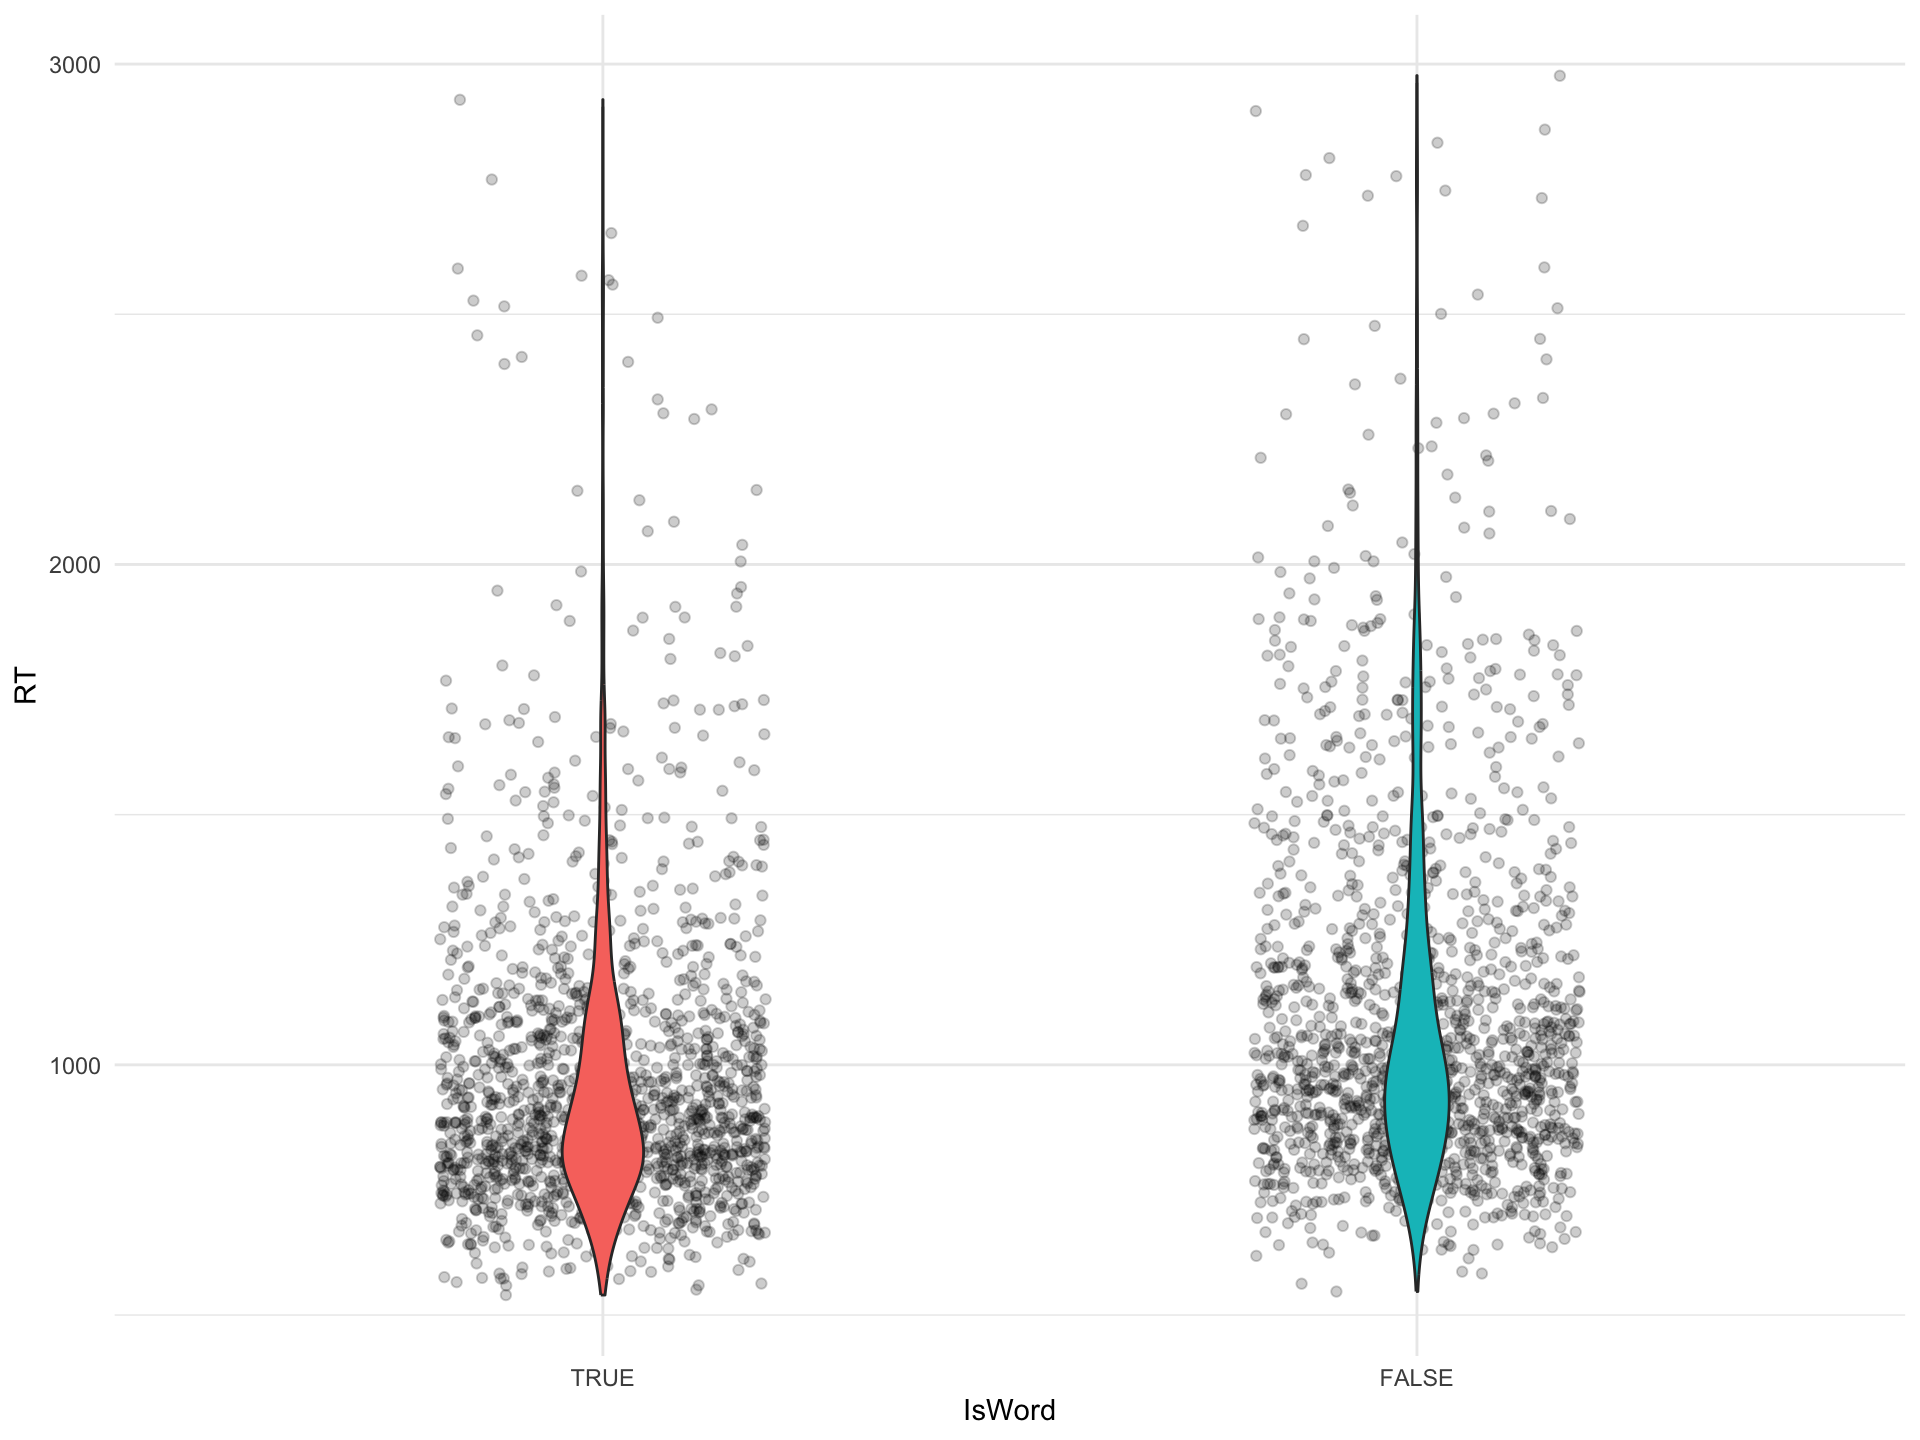
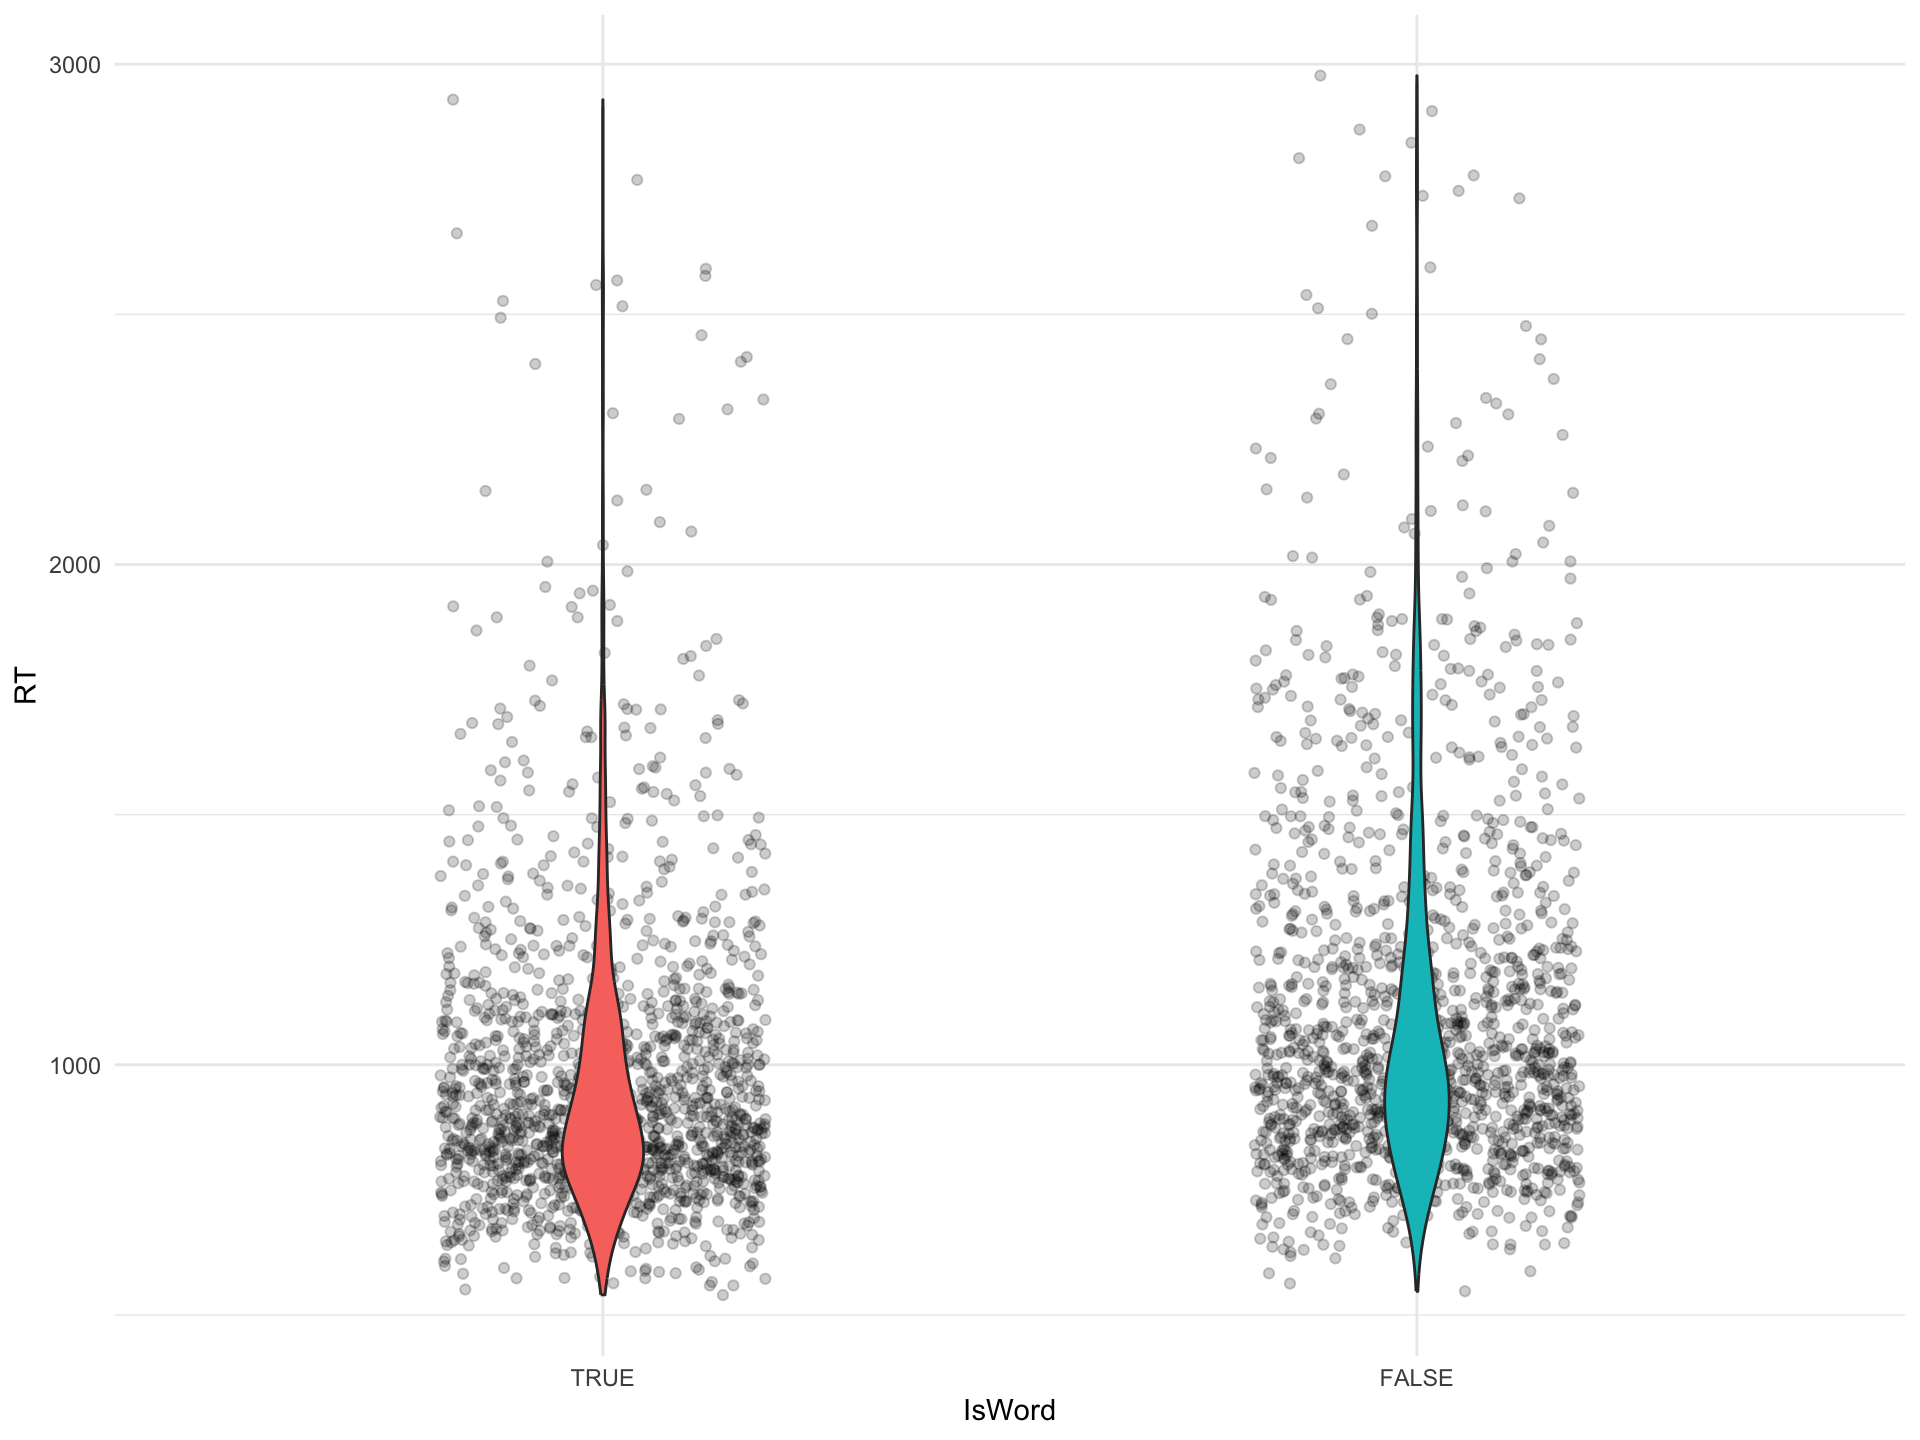
edit slides

diff --git a/docs/slides/05_interactions.html b/docs/slides/05_interactions.html
@@ -352,6 +352,10 @@ Figure&nbsp;2: Predicted difference in <code>PhonLev</code> effect in nonce vs r
 </div>
 </div>
 </section>
+<section id="section" class="slide level2">
+<h2></h2>
+<iframe allowfullscreen="" frameborder="0" height="100%" mozallowfullscreen="" style="min-width: 500px; min-height: 355px" src="https://app.wooclap.com/events/JEJPPA/questions/6841e77495daccc49304b051" width="100%"></iframe>
+</section>
 <section id="plot-the-model-predictions" class="slide level2">
 <h2>Plot the model predictions</h2>
 <div class="cell">
@@ -446,11 +450,26 @@ Figure&nbsp;3
 <span id="cb13-4"><a></a>  <span class="fu">stat_halfeye</span>()</span></code><button title="Copy to Clipboard" class="code-copy-button"><i class="bi"></i></button></pre></div>
 
 </div>
-
-
 <img data-src="05_interactions_files/figure-revealjs/fig-phonlev-diff-5-10-ms-1.png" id="fig-phonlev-diff-5-10-ms" width="960" class="r-stretch quarto-figure-center"><p class="caption">
 Figure&nbsp;4
 </p></section>
+<section id="section-1" class="slide level2">
+<h2></h2>
+<iframe allowfullscreen="" frameborder="0" height="100%" mozallowfullscreen="" style="min-width: 500px; min-height: 355px" src="https://app.wooclap.com/events/JEJPPA/questions/6841e9ef95daccc49305b436" width="100%"></iframe>
+</section>
+<section id="summary" class="slide level2">
+<h2>Summary</h2>
+<div class="box-note">
+<ul>
+<li><p>Bayesian statistics is a <strong>framework for doing inference</strong> (i.e.&nbsp;learning something about a population from a sample).</p></li>
+<li><p>The Bayesian framework is based on <strong>estimating uncertainty with probability distributions</strong> on parameters.</p></li>
+<li><p>Bayesian regressions are a flexible way to model data.</p></li>
+<li><p>What you learned today can be transferred to other types of regression models (Bernoulli, cumulative, ordinal, categorical, beta, …).</p></li>
+</ul>
+</div>
+
+
+</section>
     </div>
   <div class="quarto-auto-generated-content" style="display: none;">
 <div class="footer footer-default">

diff --git a/docs/slides/02_regression.html b/docs/slides/02_regression.html
@@ -291,8 +291,8 @@ RT &amp; \sim Gaussian(\mu, \sigma)\\
 </div>
 </div>
 </section>
-<section id="what-are-your-expectations" class="slide level2">
-<h2>What are your expectations?</h2>
+<section id="section" class="slide level2">
+<h2></h2>
 <iframe allowfullscreen="" frameborder="0" height="100%" mozallowfullscreen="" style="min-width: 500px; min-height: 355px" src="https://app.wooclap.com/events/JEJPPA/questions/68346b14678ad4313b2e2b05" width="100%"></iframe>
 </section>
 <section id="mald-regression-1" class="slide level2">
@@ -370,7 +370,7 @@ PhonLev      26.05      4.85    16.70    35.40 1.00     4169     2866</code></pr
 </ul>
 </div>
 </section>
-<section id="section" class="slide level2">
+<section id="section-1" class="slide level2">
 <h2></h2>
 <iframe allowfullscreen="" frameborder="0" height="100%" mozallowfullscreen="" style="min-width: 500px; min-height: 355px" src="https://app.wooclap.com/events/JEJPPA/questions/6841e1577066f550294b8926" width="100%"></iframe>
 </section>

diff --git a/docs/slides/01_basics.html b/docs/slides/01_basics.html
@@ -375,14 +375,14 @@ Stefano Coretta
 <li><code>IsWord</code>: lexical status (real word vs nonce word).</li>
 </ul>
 </section>
-<section id="what-are-your-expectations" class="slide level2">
-<h2>What are your expectations?</h2>
+<section id="section-1" class="slide level2">
+<h2></h2>
 <iframe allowfullscreen="" frameborder="0" height="600px" mozallowfullscreen="" style="min-width: 500px; min-height: 355px" src="https://app.wooclap.com/events/JEJPPA/questions/682f25c769100c24662fef2a" width="100%">
 
 </iframe>
 </section>
-<section id="what-are-your-expectations-1" class="slide level2">
-<h2>What are your expectations?</h2>
+<section id="section-2" class="slide level2">
+<h2></h2>
 <iframe allowfullscreen="" frameborder="0" height="600px" mozallowfullscreen="" style="min-width: 500px; min-height: 355px" src="https://app.wooclap.com/events/JEJPPA/questions/682f260f776b2a0921ae54ed" width="100%">
 
 </iframe>
